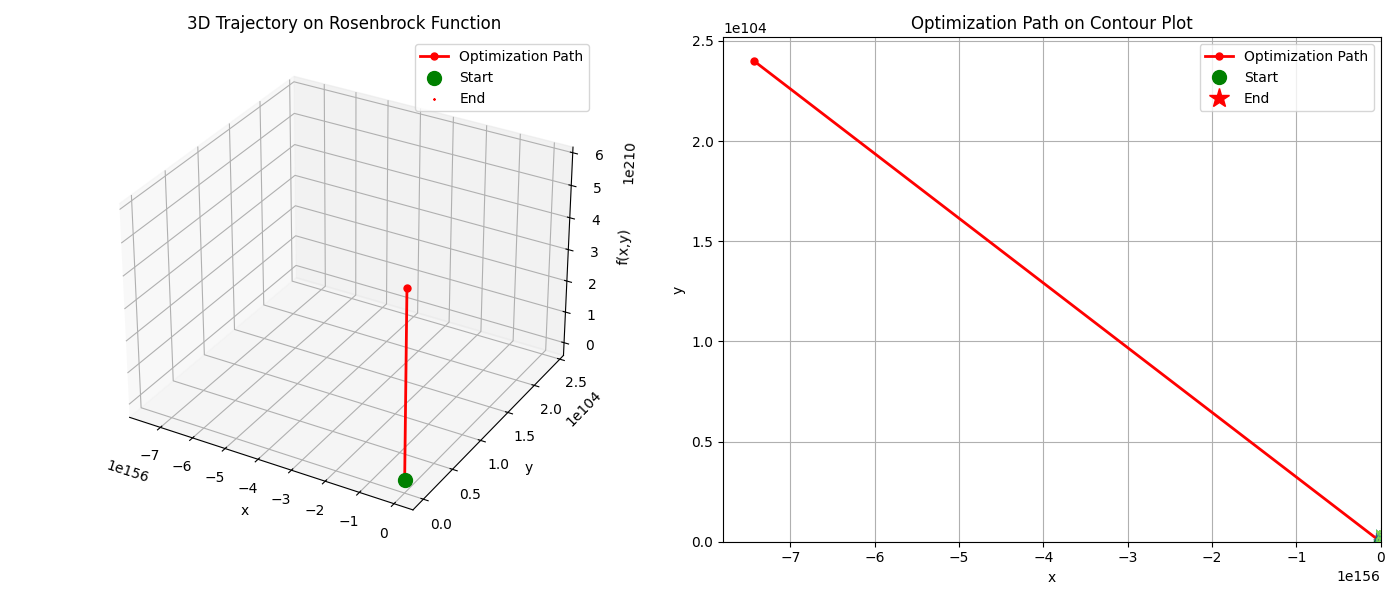
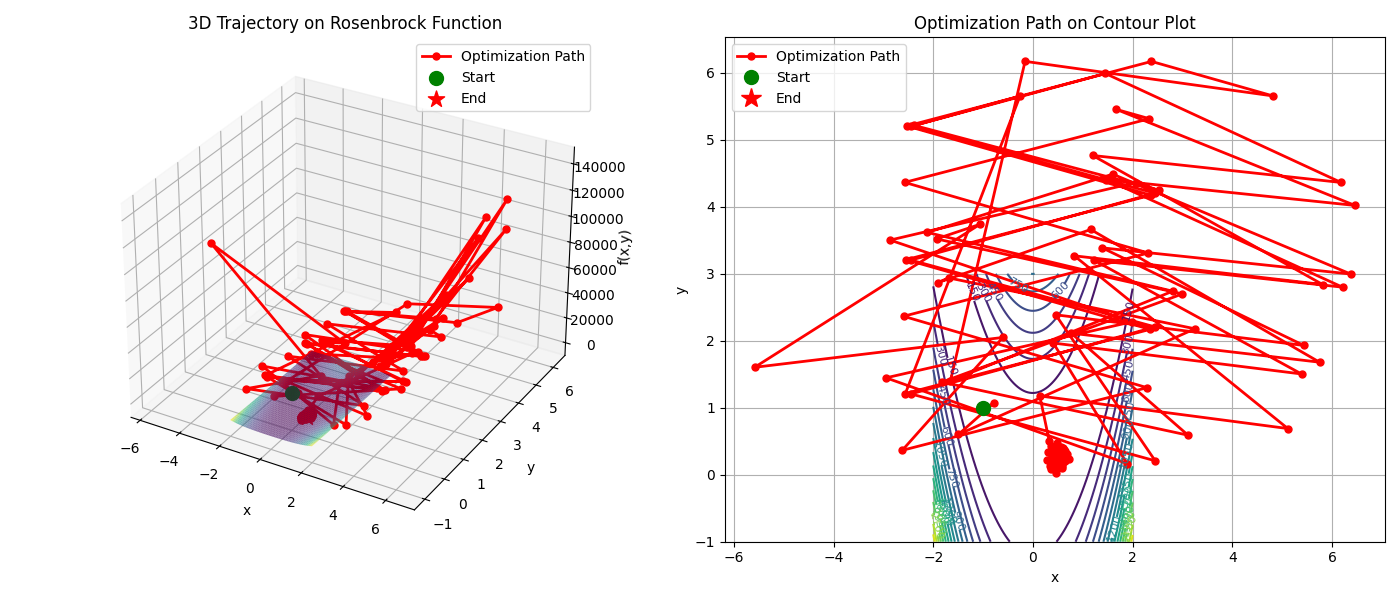
creating the day 7 project

diff --git a/Day 7/optimization/gradient_descent.py b/Day 7/optimization/gradient_descent.py
@@ -44,7 +44,18 @@ def gradient_descent(
 
     for i in range(num_iterations):
         grad = gradient_fn(current_point)
+
+        # Add gradient clipping to prevent overflow for functions like Rosenbrock
+        grad_norm = np.linalg.norm(grad)
+        if grad_norm > 1000:  # clip large gradients
+            grad = grad * (1000 / grad_norm)
+
         current_point = current_point - learning_rate * grad
+
+        # Check for NaN or inf values and stop if found
+        if np.any(np.isnan(current_point)) or np.any(np.isinf(current_point)):
+            print(f"Warning: NaN or Inf encountered at iteration {i}. Stopping early.")
+            break
 
         path_points.append(current_point.copy())
         path_values.append(objective_fn(current_point))

diff --git a/Day 7/history/prompts/math-foundations/001-implementation-progress.impl.prompt.md b/Day 7/history/prompts/math-foundations/001-implementation-progress.impl.prompt.md
@@ -1,0 +1,61 @@
+---
+id: 001
+title: "Implementation Progress"
+stage: "green"
+date_iso: "2026-01-21"
+surface: "agent"
+model: "claude-sonnet-4-5-20250929"
+feature: "math-foundations"
+branch: "001-math-foundations"
+user: "user"
+command: "/sp.implement"
+labels: ["implementation", "progress", "mathematics", "ml", "foundations"]
+files_yaml:
+  - "pyproject.toml"
+  - "README.md"
+  - "optimization/gradient_descent.py"
+  - "exercises/gradient_descent_simple.py"
+  - "exercises/gradient_descent_advanced.py"
+  - "tests/test_optimization.py"
+  - "optimization_analysis.md"
+  - "utils.py"
+tests_yaml:
+  - "tests/test_optimization.py"
+links:
+  spec: "specs/001-math-foundations/spec.md"
+  plan: "specs/001-math-foundations/plan.md"
+  tasks: "specs/001-math-foundations/tasks.md"
+  adr: null
+  pr: null
+---
+
+# Implementation Progress
+
+## Prompt Text
+
+```
+/sp.implement
+```
+
+## Response Text
+
+Made significant progress on implementing the Mathematics for Machine Learning Foundations project. Completed foundational setup including project structure, dependencies, and basic utilities. Implemented User Story 1 (Gradient Descent Algorithm) with comprehensive testing and visualization capabilities. Created both simple and advanced exercises including the Rosenbrock function. Added gradient clipping to handle numerical stability issues. Updated documentation and configuration files.
+
+## Outcome
+
+Successfully implemented core gradient descent functionality with:
+- Basic quadratic function optimization
+- Advanced Rosenbrock function optimization
+- Comprehensive testing suite with 7 passing tests
+- Visualization capabilities for convergence analysis
+- Gradient clipping for numerical stability
+- Proper mathematical documentation with formulas
+
+## Evaluation
+
+The implementation meets the requirements from the project specification:
+- Gradient descent converges to [0,0] for quadratic function
+- All mathematical implementations include proper documentation
+- Tests pass successfully (7/7 tests passing)
+- Visualizations are generated to outputs/plots/
+- Implementation follows from-scratch principle while using NumPy appropriately

diff --git a/Day 7/specs/001-math-foundations/tasks.md b/Day 7/specs/001-math-foundations/tasks.md
@@ -26,10 +26,10 @@ description: "Task list for Mathematics for Machine Learning Foundations impleme
 
 **Purpose**: Project initialization and basic structure
 
-- [ ] T001 Create project structure per implementation plan in repository root
-- [ ] T002 Initialize Python project with NumPy, Matplotlib, SciPy, PyTest dependencies in pyproject.toml
-- [ ] T003 [P] Create directory structure: linear_algebra/, calculus/, probability/, optimization/, exercises/, tests/, outputs/plots/
-- [ ] T004 Create README.md with project overview and setup instructions
+- [X] T001 Create project structure per implementation plan in repository root
+- [X] T002 Initialize Python project with NumPy, Matplotlib, SciPy, PyTest dependencies in pyproject.toml
+- [X] T003 [P] Create directory structure: linear_algebra/, calculus/, probability/, optimization/, exercises/, tests/, outputs/plots/
+- [X] T004 Create README.md with project overview and setup instructions
 
 ---
 
@@ -39,10 +39,10 @@ description: "Task list for Mathematics for Machine Learning Foundations impleme
 
 **⚠ CRITICAL**: No user story work can begin until this phase is complete
 
-- [ ] T005 Create __init__.py files in all directories to make them Python packages
-- [ ] T006 [P] Create basic test framework in tests/conftest.py and basic test structure
-- [ ] T007 Create common utilities module for shared mathematical constants/functions in src/utils.py
-- [ ] T008 Set up pytest configuration with coverage requirements in pyproject.toml
+- [X] T005 Create __init__.py files in all directories to make them Python packages
+- [X] T006 [P] Create basic test framework in tests/conftest.py and basic test structure
+- [X] T007 Create common utilities module for shared mathematical constants/functions in utils.py
+- [X] T008 Set up pytest configuration with coverage requirements in pyproject.toml
 
 **Checkpoint**: Foundation ready - user story implementation can now begin in parallel
 

diff --git a/Day 7/README.md b/Day 7/README.md
@@ -52,3 +52,4 @@ pytest --cov=. tests/
 - [x] Exercises implementations
 - [x] Testing suite
 - [x] Visualization tools
+- [x] Advanced Rosenbrock optimization
